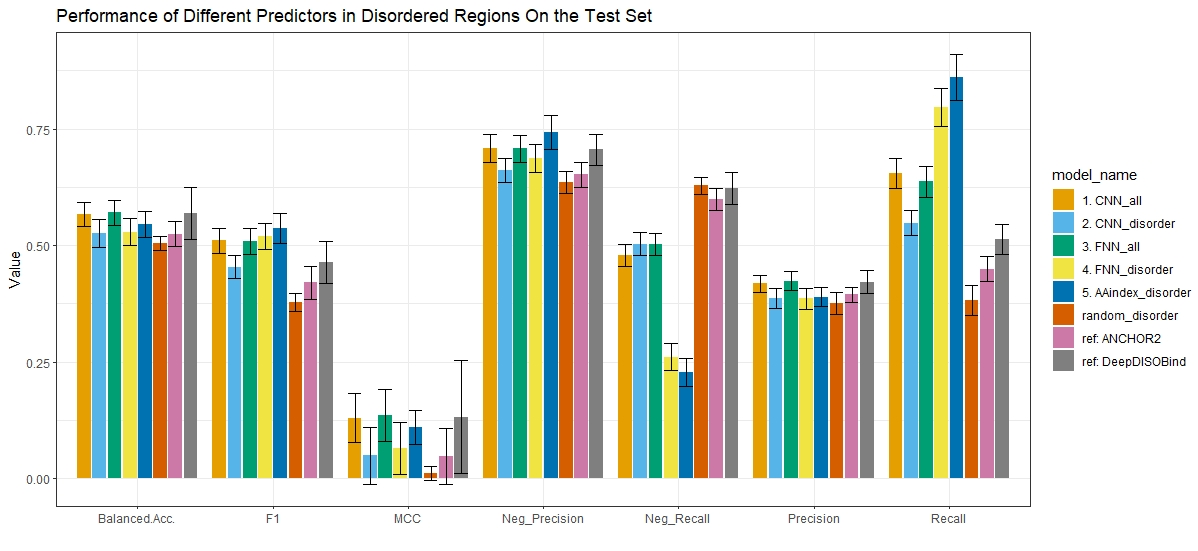
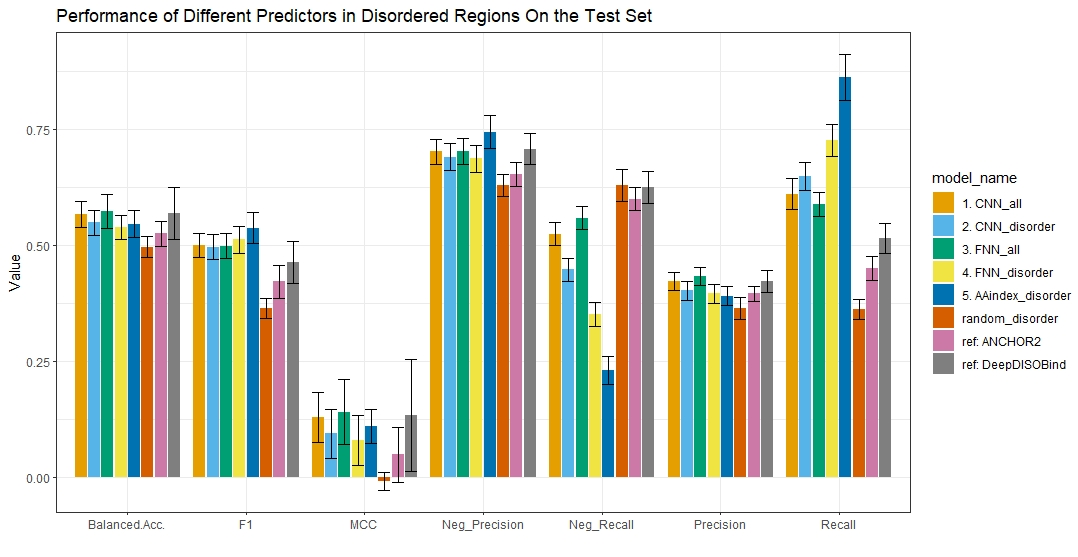
new performance assessment and welch tests on test set

Changed region(s): [[0.0, 0.1234, 1.0, 0.9564], [0.0306, 0.0, 0.8265, 0.0617], [0.0, 0.216, 0.0612, 0.2468]]

diff --git a/src/performance_assessment.py b/src/performance_assessment.py
@@ -1093,8 +1093,8 @@ if __name__ == '__main__':
                 13.0, 13.1, 13.2, 13.3, 13.4,
                 20.0, 22.0, 40.0, 42.0]
     """
-    variants = [[12.2, 11.5]]
-    assessment_name = "mobidb_2_consensus_c38"  # "mobidb" / "2.21_only" / ""
+    variants = [11.5, 22.0]
+    assessment_name = "mobidb_2_additional_welch_new"  # "mobidb" / "2.21_only" / ""
     test_batch_size = 100  # n AAs, or None --> 1 protein
 
     names = {0.0: "mobidb_CNN_0",  # 1: currently best model
@@ -1338,7 +1338,7 @@ if __name__ == '__main__':
         names[101.0] = 'DeepDISOBind'
 
     # Welch test for some specific models
-    """
+
     print("Welch test: FNN_all vs reference models vs random")
     for i, model_i in enumerate(variants):
         for j, model_j in enumerate(variants):
@@ -1347,7 +1347,7 @@ if __name__ == '__main__':
                 for k in per_model_metrics[0].keys():
                     print(k, "(statistic, pvalue)")
                     print(stats.ttest_ind(per_model_metrics[i][k], per_model_metrics[j][k], equal_var=False))
-    """
+
 
 
     output_name = f'../results/logs/performance_assessment_{assessment_name}.tsv' if not test else \
